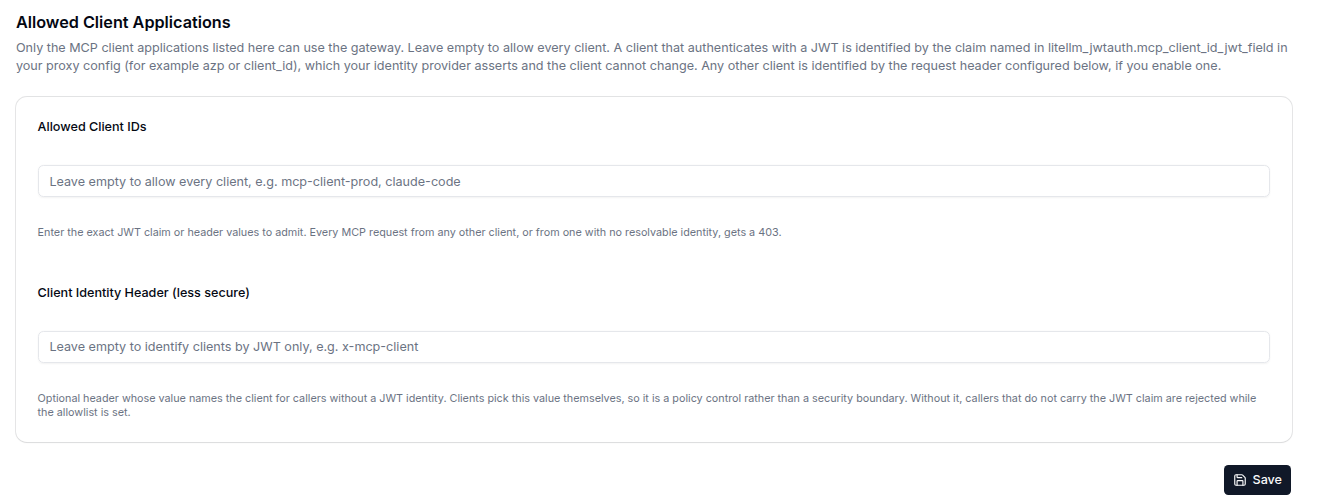
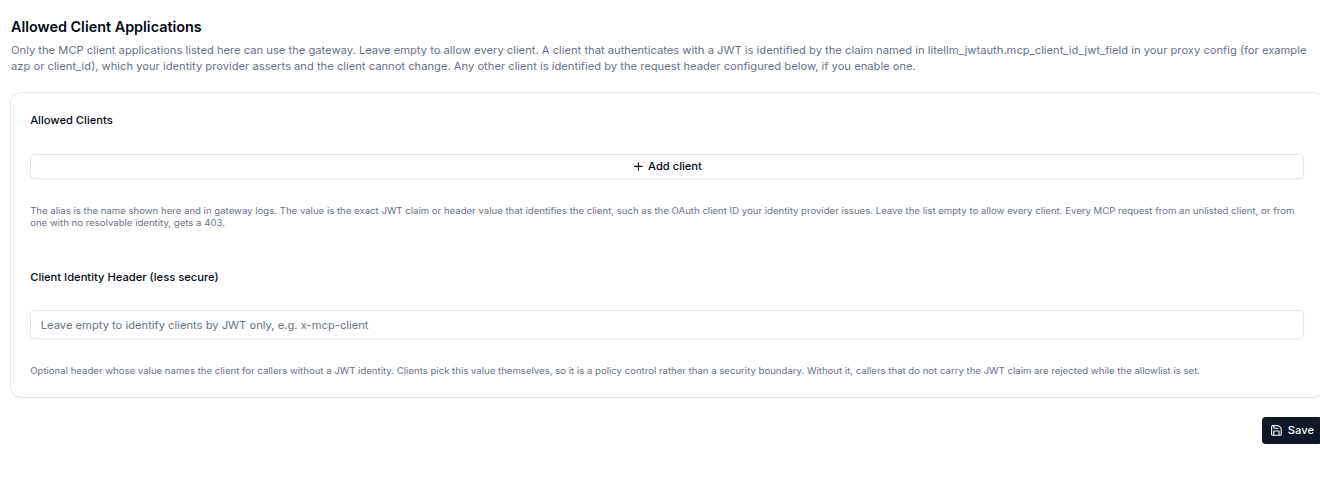
docs(mcp): describe allowed clients as alias and value pairs, add Okta claim setup, refresh screenshots

diff --git a/docs/mcp_client_allowlist.md b/docs/mcp_client_allowlist.md
@@ -11,16 +11,18 @@ Decide which MCP client applications (Claude Code, Cursor, an internal CLI, and 
 | Property | Details |
 |-------|-------|
 | Description | Gateway-wide allowlist of MCP client applications, checked on every MCP request after authentication |
-| Allowlist | `mcp_allowed_clients` in `general_settings` (unset admits every client) |
+| Allowlist | `mcp_allowed_clients` in `general_settings`, a list of `alias` + `value` entries (unset admits every client) |
 | JWT identity | `mcp_client_id_jwt_field` in `litellm_jwtauth`, for example `azp` or `client_id` |
 | Header identity | `mcp_client_id_header` in `general_settings`, opt-in and less secure |
 | Where to edit | config.yaml or the **Network Settings** tab under MCP Servers in the Admin UI |
 
 ## How It Works
 
-The check runs right after LiteLLM authenticates the MCP request, on the `/mcp` Streamable HTTP endpoint and the `/mcp/sse` endpoint alike. It works out who the calling client is, then compares that identity against `mcp_allowed_clients` with an exact string match.
+The check runs right after LiteLLM authenticates the MCP request, on the `/mcp` Streamable HTTP endpoint, the `/mcp/sse` endpoint and the authenticated [MCP REST API](./mcp_rest_api.md) routes alike. It works out who the calling client is, then compares that identity against the `value` of each entry in `mcp_allowed_clients` with an exact, case-sensitive string match.
 
-A caller that authenticated with a JWT is identified by the claim named in `litellm_jwtauth.mcp_client_id_jwt_field`. Identity providers stamp the client application into the token (`azp` on Entra ID and Google, `client_id` on RFC 9068 access tokens), so the client cannot change this value. A JWT caller whose token lacks the claim, or whose claim is not on the list, is rejected; the token never falls back to the header. This is the recommended path.
+Each allowed client has two parts. The `value` is the string the identity provider (or the header) will actually carry, typically an OAuth client ID such as `0oa1b2c3d4e5f6g7h8i9`. The `alias` is the name you give that client so the dashboard and the gateway logs read "Coding CLI" rather than an opaque ID. Only the value is ever compared; an alias never admits anyone.
+
+A caller that authenticated with a JWT is identified by the claim named in `litellm_jwtauth.mcp_client_id_jwt_field`. Identity providers stamp the client application into the token (`cid` on Okta, `azp` on Entra ID v2 tokens, `client_id` on RFC 9068 access tokens), so the client cannot change this value. A JWT caller whose token lacks the claim, or whose claim is not on the list, is rejected; the token never falls back to the header. This is the recommended path.
 
 Any other caller (a virtual key, the master key, an OAuth session without a usable JWT claim) is identified by the request header named in `general_settings.mcp_client_id_header`, if you set one. The client picks the header value itself, so treat this as a policy control rather than a security boundary. Without the header setting, callers that carry no JWT identity are rejected while the allowlist is set.
 
@@ -41,9 +43,17 @@ flowchart TD
     E -->|No| R
 ```
 
+## Populating the claim in your identity provider
+
+Most identity providers already put the OAuth client ID into every access token, so usually no custom claim is needed: point `mcp_client_id_jwt_field` at that standard claim and allowlist the client IDs of the apps you trust, giving each a readable alias.
+
+**Okta.** Access tokens carry the reserved `cid` claim, the client ID of the app that requested the token, so `mcp_client_id_jwt_field: cid` works with no extra setup and the allowlist values are your Okta app client IDs (for example `0oa1b2c3d4e5f6g7h8i9`). If you would rather match on a name you control, create a custom claim on a [custom authorization server](https://developer.okta.com/docs/guides/customize-tokens-returned-from-okta/main/) (Security > API > Authorization Servers > your server > Claims > Add Claim, included in the access token) with an expression such as `app.clientId`, or `app.profile.mcpClientName` after adding that attribute to each app's profile, and set `mcp_client_id_jwt_field` to the claim's name. Custom claims are not available on the Okta org authorization server
+
+**Other providers.** Entra ID v2 access tokens carry the client app ID in `azp` (v1 tokens use `appid`), and access tokens that follow RFC 9068 carry it in `client_id`. Check your provider's token reference for the exact claim; `mcp_client_id_jwt_field` accepts dot notation for nested claims
+
 ## Walkthrough
 
-This walkthrough admits one internal CLI, identified as `antigravity-cli`, and shuts out everything else. It assumes [JWT auth](./proxy/token_auth.md) is already enabled on the proxy.
+This walkthrough admits one internal CLI, whose identity provider issues tokens with `azp: antigravity-cli`, under the alias "Antigravity CLI", and shuts out everything else. It assumes [JWT auth](./proxy/token_auth.md) is already enabled on the proxy.
 
 ### Step 1: Name the JWT claim that identifies the client
 
@@ -68,14 +78,14 @@ Open the MCP Servers page and switch to the **Network Settings** tab. The **Allo
   style={{width: '100%', display: 'block', margin: '0'}}
 />
 
-Type `antigravity-cli` into **Allowed Client IDs** and press Enter. If some of your callers use virtual keys instead of JWTs, also fill **Client Identity Header** with the header they will send, for example `x-mcp-client`. Click **Save**. The change is stored in the database and picked up by every proxy worker on its next settings poll, without a restart.
+Click **Add client** under **Allowed Clients** and fill the row: **Alias** `Antigravity CLI`, **Value** `antigravity-cli`. Add one row per client application, for example a second row with **Alias** `Claude Code` and **Value** `claude-code`. If some of your callers use virtual keys instead of JWTs, also fill **Client Identity Header** with the header they will send, for example `x-mcp-client`. Click **Save**. The change is stored in the database and picked up by every proxy worker on its next settings poll, without a restart.
 
 <Image
   img={require('../img/mcp_client_allowlist_ui_saved.png')}
   style={{width: '100%', display: 'block', margin: '0'}}
 />
 
-To go back to admitting every client, remove the chips and click **Save** again; the setting is deleted rather than saved as an empty list. If an empty list is ever stored (for example through the API), the page warns that every client is being denied.
+To go back to admitting every client, remove every row and click **Save** again; the setting is deleted rather than saved as an empty list. If an empty list is ever stored (for example through the API), or the stored value is not a list of alias and value pairs (for example a plain list of strings written by an older version), the page warns that every client is being denied. Add the rows you want and Save to replace it, or Save with the list empty to remove it.
 
 <Image
   img={require('../img/mcp_client_allowlist_ui_deny_all.png')}
@@ -130,7 +140,7 @@ Rejected requests show up in the proxy log as `Rejected MCP request from a disal
 <Tabs>
 <TabItem value="ui" label="UI">
 
-MCP Servers page, **Network Settings** tab, **Allowed Client Applications** section. **Allowed Client IDs** maps to `mcp_allowed_clients` and **Client Identity Header** maps to `mcp_client_id_header`. A key that is set in config.yaml cannot be edited here; remove it from the file first.
+MCP Servers page, **Network Settings** tab, **Allowed Client Applications** section. Each **Allowed Clients** row (alias and value) is one entry of `mcp_allowed_clients` and **Client Identity Header** maps to `mcp_client_id_header`. A row needs both fields; Save rejects a row with only one of them filled. A key that is set in config.yaml cannot be edited here; remove it from the file first.
 
 </TabItem>
 <TabItem value="config" label="config.yaml">
@@ -140,9 +150,11 @@ general_settings:
   enable_jwt_auth: true
   litellm_jwtauth:
     mcp_client_id_jwt_field: azp      # JWT claim naming the client app; supports dot notation
-  mcp_allowed_clients:                # unset = admit every client
-    - antigravity-cli
-    - claude-code
+  mcp_allowed_clients:                # unset = admit every client; only value is matched
+    - alias: Antigravity CLI
+      value: antigravity-cli
+    - alias: Claude Code
+      value: claude-code
   mcp_client_id_header: x-mcp-client  # optional, for callers without a JWT identity
 ```
 
@@ -155,7 +167,10 @@ curl -X POST <your-litellm-url>/config/field/update \
   -H "Content-Type: application/json" \
   -d '{
     "field_name": "mcp_allowed_clients",
-    "field_value": ["antigravity-cli", "claude-code"],
+    "field_value": [
+      {"alias": "Antigravity CLI", "value": "antigravity-cli"},
+      {"alias": "Claude Code", "value": "claude-code"}
+    ],
     "config_type": "general_settings"
   }'
 ```
@@ -181,6 +196,6 @@ curl -X POST <your-litellm-url>/config/field/delete \
 | Set | JWT with unlisted or missing claim value | 403, even with a listed header |
 | Set | Non-JWT caller with listed header value | Admitted |
 | Set | Non-JWT caller with unlisted or missing header, or no `mcp_client_id_header` configured | 403 |
-| Set to `[]` | Anyone | 403 |
+| Set to `[]`, or to entries missing `alias` or `value` | Anyone | 403 |
 
-The allowlist gates the MCP protocol endpoints (`/mcp` and `/mcp/sse`). The [MCP REST API](./mcp_rest_api.md) (`/mcp/tools/list`, `/mcp/tools/call`) uses the same key auth but is not covered by this check. Per-key and per-team MCP server permissions from [MCP Permission Management](./mcp_control.md) still apply after a client is admitted.
+The allowlist gates the MCP protocol endpoints (`/mcp` and `/mcp/sse`) and the authenticated [MCP REST API](./mcp_rest_api.md) routes (`/mcp-rest/tools/list`, `/mcp-rest/tools/call`). The Admin UI's own connection-test routes are not affected. Per-key and per-team MCP server permissions from [MCP Permission Management](./mcp_control.md) still apply after a client is admitted.
